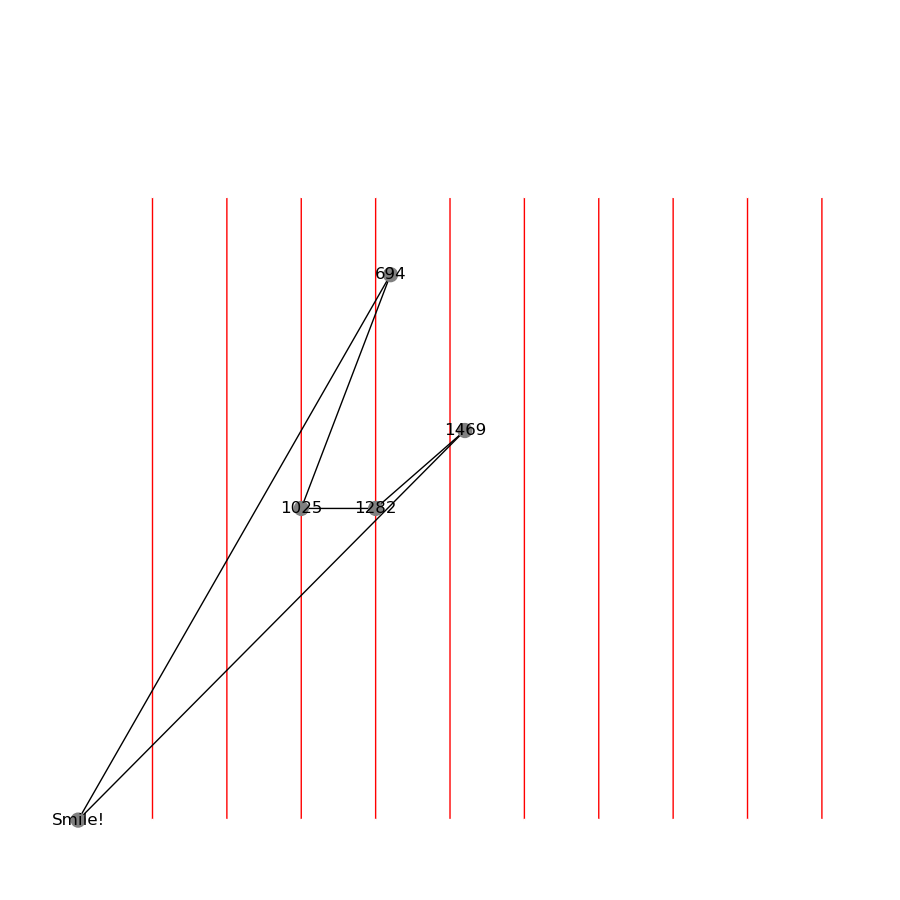
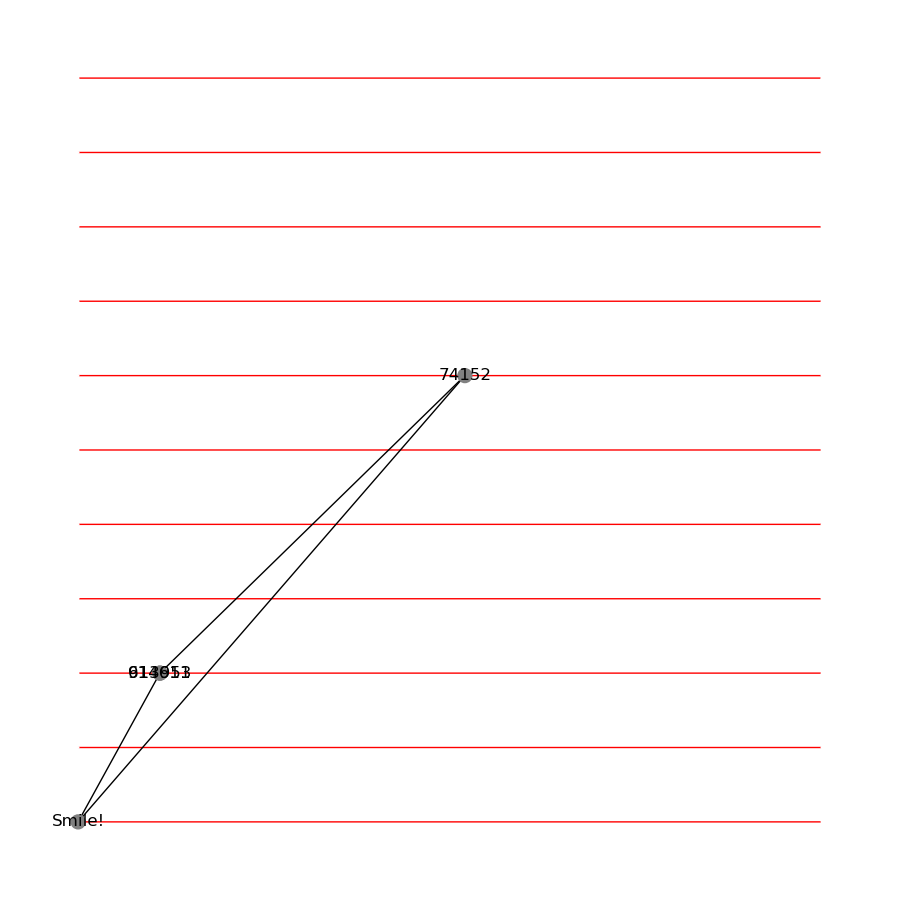
shelf changed

diff --git a/algorithm/algorithms.py b/algorithm/algorithms.py
@@ -59,12 +59,11 @@ def draw_png_graph(products,res_ind):
     # add shelf
     for ind in range(len(shelf)):
         s = shelf[ind]
-        id1 = str(s[0][0])
-        id2 = - s[0][0]-1
-        G.add_node(id1,label = "", pos=(s[0][0],s[0][1]),col = 'white',size = 1)
-        G.add_node(id2,label = "", pos=(s[1][0],s[1][1]),col = 'white',size = 1)
-        G.add_edge(id1,id2,col = 'red',style = '-')
-
+        id1 = str(s[0][0]) + str(s[0][1])
+        id2 = str(s[1][0]) + str(s[1][1])
+        G.add_node(id1, label="", pos=(s[0][0], s[0][1]), col='white', size=1)
+        G.add_node(id2, label="", pos=(s[1][0], s[1][1]), col='white', size=1)
+        G.add_edge(id1, id2, col='red')
 
     G.add_node(0,label = 'Smile!', pos=(0,0),col='grey',size = 100)
     for p in products:
@@ -101,11 +100,11 @@ def draw_png_dot_graph(products,path):
 
     for ind in range(len(shelf)):
         s = shelf[ind]
-        id1 = str(s[0][0])
-        id2 = - s[0][0]-1
-        G.add_node(id1,label = "", pos=(s[0][0],s[0][1]),col = 'white',size = 1)
-        G.add_node(id2,label = "", pos=(s[1][0],s[1][1]),col = 'white',size = 1)
-        G.add_edge(id1,id2,col = 'red')
+        id1 = str(s[0][0]) + str(s[0][1])
+        id2 = str(s[1][0]) + str(s[1][1])
+        G.add_node(id1, label="", pos=(s[0][0], s[0][1]), col='white', size=1)
+        G.add_node(id2, label="", pos=(s[1][0], s[1][1]), col='white', size=1)
+        G.add_edge(id1, id2, col='red')
 
     pos = nx.get_node_attributes(G,'pos')
     node_labels = nx.get_node_attributes(G, 'label')
